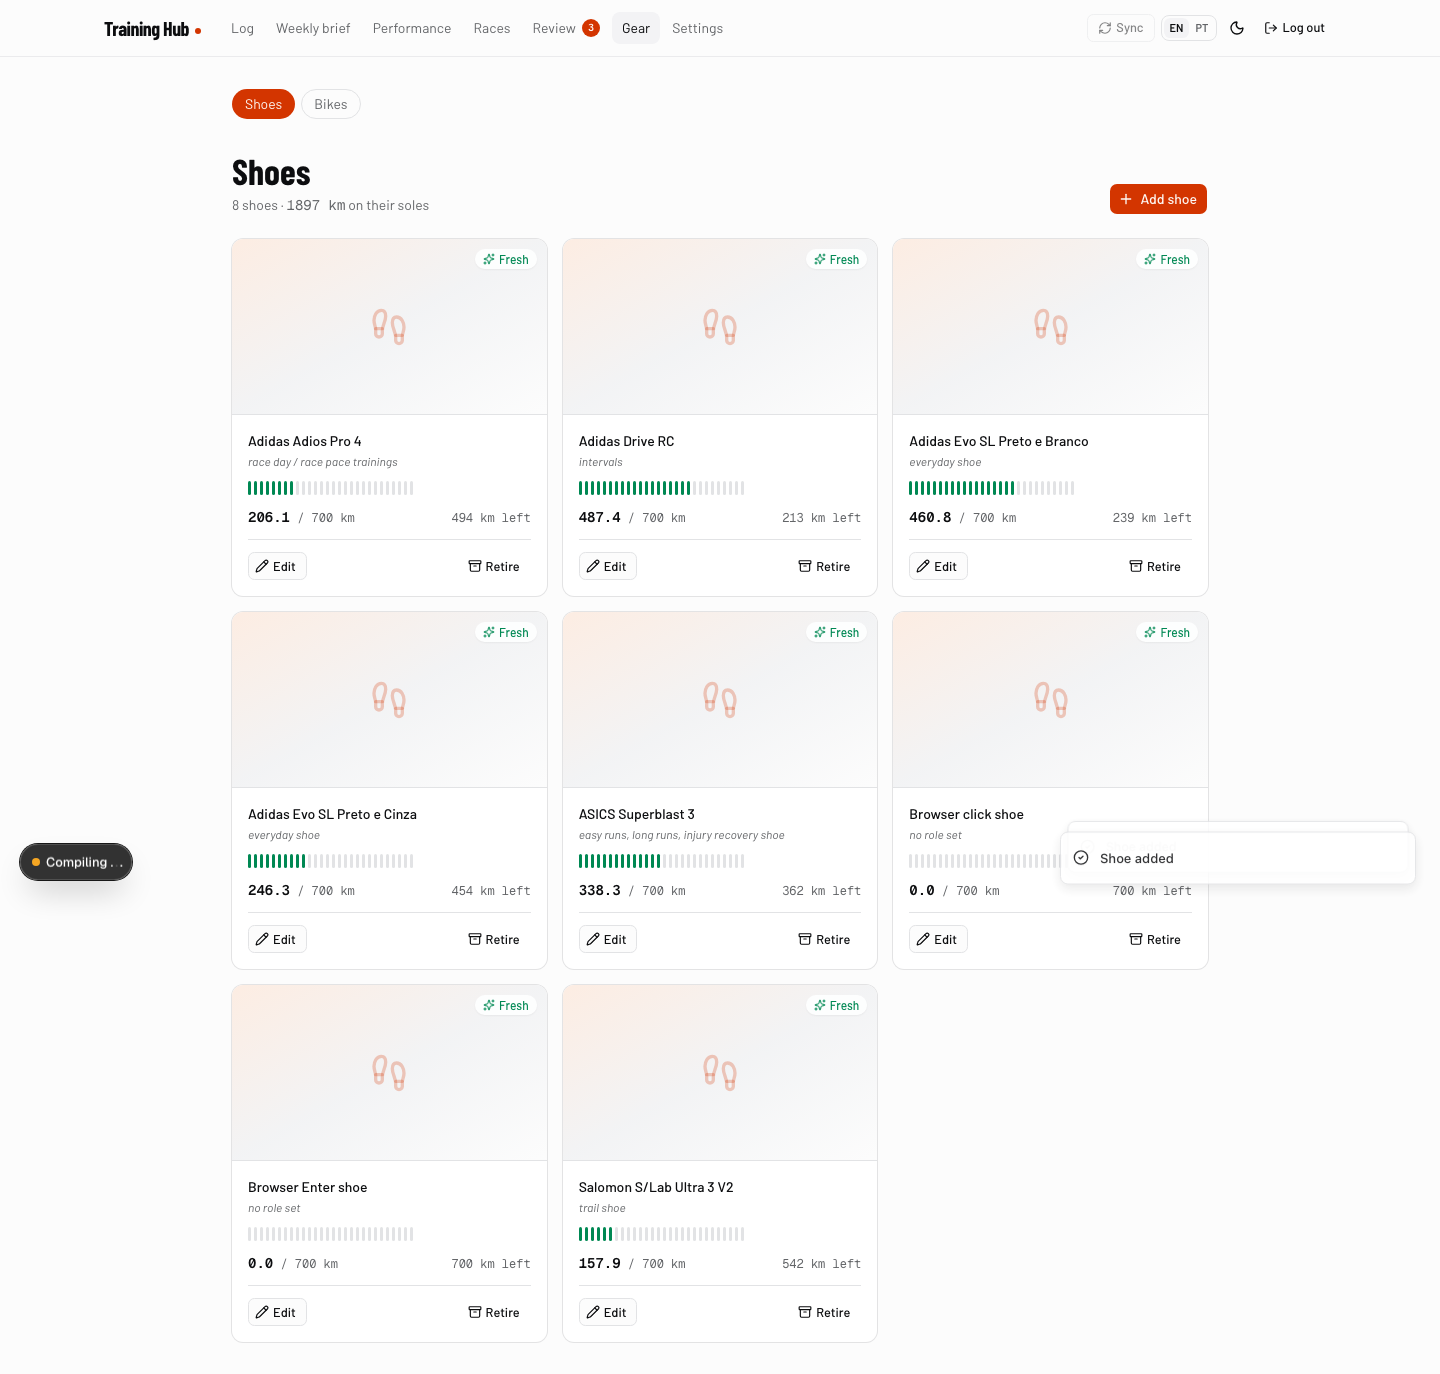
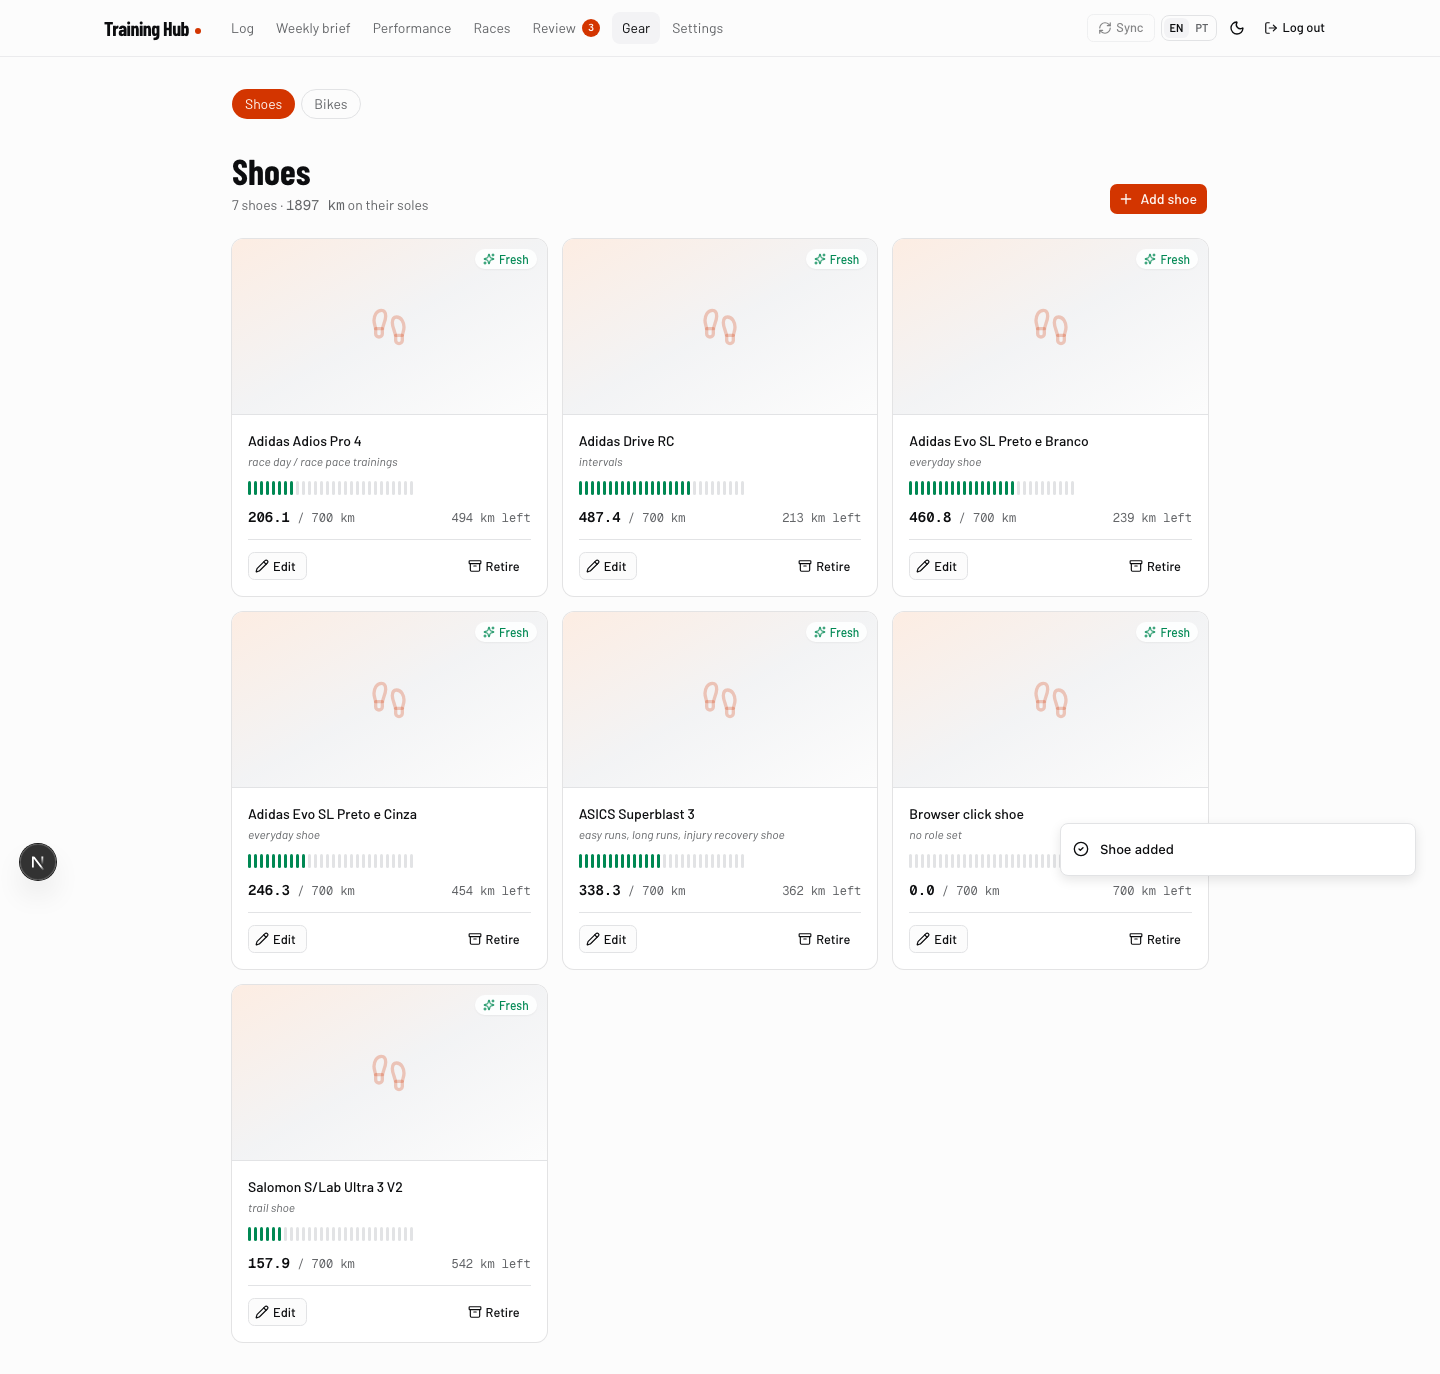
fix: stabilize gear form submission feedback

diff --git a/e2e/gear.spec.ts b/e2e/gear.spec.ts
@@ -1,7 +1,13 @@
 import { test, expect } from "@playwright/test";
 import path from "node:path";
 
-const EVIDENCE = path.join(process.cwd(), "evidence", "issue-56");
+async function captureEvidence(page: import("@playwright/test").Page, name: string) {
+  if (process.env.CAPTURE_GEAR_EVIDENCE !== "1") return;
+  await page.screenshot({
+    path: path.join(process.cwd(), "evidence", "issue-56", name),
+    fullPage: true,
+  });
+}
 
 async function addGear(
   page: import("@playwright/test").Page,
@@ -14,6 +20,10 @@ async function addGear(
   await page.getByRole("button", { name: label }).click();
   const dialog = page.getByRole("dialog");
   await dialog.getByLabel("Name").fill(name);
+  let actionPosts = 0;
+  page.on("request", (request) => {
+    if (request.method() === "POST" && request.headers()["next-action"]) actionPosts += 1;
+  });
   const actionRequest = page.waitForRequest(
     (request) => request.method() === "POST" && Boolean(request.headers()["next-action"])
   );
@@ -26,6 +36,9 @@ async function addGear(
   await actionRequest;
   await expect(dialog).toBeHidden();
   await expect(page.getByText(name, { exact: true })).toBeVisible();
+  await expect(page.getByText(kind === "shoe" ? "Shoe added" : "Bike added")).toHaveCount(1);
+  await page.waitForTimeout(200);
+  expect(actionPosts).toBe(1);
 }
 
 // Shoes and bikes are created by the baseline migration that the seed runs, so
@@ -49,7 +62,7 @@ test("authenticated athlete adds a shoe with click submission through a Server A
 }) => {
   await page.setViewportSize({ width: 1440, height: 900 });
   await addGear(page, "shoe", "Browser click shoe", "click");
-  await page.screenshot({ path: path.join(EVIDENCE, "56-gear-success-1440.png"), fullPage: true });
+  await captureEvidence(page, "56-gear-success-1440.png");
 });
 
 test("authenticated athlete adds a shoe with Enter submission through a Server Action", async ({
@@ -58,9 +71,33 @@ test("authenticated athlete adds a shoe with Enter submission through a Server A
   await page.setViewportSize({ width: 390, height: 844 });
   await addGear(page, "shoe", "Browser Enter shoe", "enter");
   await expect(page.locator("html")).toHaveJSProperty("scrollWidth", 390);
-  await page.screenshot({ path: path.join(EVIDENCE, "56-gear-success-390.png"), fullPage: true });
+  await captureEvidence(page, "56-gear-success-390.png");
 });
 
 test("authenticated athlete adds a bike through its Server Action", async ({ page }) => {
   await addGear(page, "bike", "Browser bike", "click");
+});
+
+test("native invalid gear input stays open and never sends a Server Action", async ({ page }) => {
+  await page.goto("/gear");
+  await page.getByRole("button", { name: "Add shoe" }).click();
+  const dialog = page.getByRole("dialog");
+  const name = dialog.getByLabel("Name");
+  await expect(name).toBeFocused();
+
+  let actionPosts = 0;
+  page.on("request", (request) => {
+    if (request.method() === "POST" && request.headers()["next-action"]) actionPosts += 1;
+  });
+  await dialog.getByRole("button", { name: "Add shoe" }).click();
+  await expect(dialog).toBeVisible();
+  await expect(name).toBeFocused();
+  await page.waitForTimeout(200);
+  expect(actionPosts).toBe(0);
+
+  await name.fill("Keyboard shoe");
+  await name.press("Tab");
+  await expect(dialog.getByLabel("Role")).toBeFocused();
+  await dialog.getByLabel("Role").press("Tab");
+  await expect(dialog.getByLabel("Baseline km")).toBeFocused();
 });

diff --git a/src/components/gear-dialog.test.tsx b/src/components/gear-dialog.test.tsx
@@ -16,6 +16,8 @@ import { en } from "@/lib/i18n/en";
 const mocks = vi.hoisted(() => ({
   saveShoeFormAction: vi.fn(),
   saveBikeFormAction: vi.fn(),
+  toastSuccess: vi.fn(),
+  toastError: vi.fn(),
 }));
 
 vi.mock("@/lib/actions", () => ({
@@ -26,6 +28,8 @@ vi.mock("@/lib/actions", () => ({
   setShoeRetiredAction: vi.fn(),
   setBikeRetiredAction: vi.fn(),
 }));
+
+vi.mock("sonner", () => ({ toast: { success: mocks.toastSuccess, error: mocks.toastError } }));
 
 vi.mock("next/navigation", () => ({
   useRouter: () => ({ refresh: vi.fn(), push: vi.fn(), replace: vi.fn() }),
@@ -107,6 +111,34 @@ describe("GearDialog kind=bike (bike-specific: no retirement, 'Type' role)", () 
 });
 
 describe("GearDialog direct Server Action form bindings", () => {
+  it("shows pending feedback, prevents a duplicate action, then closes and toasts exactly once", async () => {
+    let resolve!: (value: { ok: true }) => void;
+    mocks.saveShoeFormAction.mockReturnValueOnce(
+      new Promise((done) => {
+        resolve = done;
+      })
+    );
+    render(
+      <GearDialog kind="shoe" gearOptions={[]} connected={true}>
+        <button>open</button>
+      </GearDialog>
+    );
+    open("open");
+    fireEvent.change(screen.getByLabelText(en.shoeDialog.name), { target: { value: "Test shoe" } });
+    const form = screen.getByRole("button", { name: en.shoeDialog.add }).closest("form")!;
+    fireEvent.submit(form);
+    fireEvent.submit(form);
+
+    await waitFor(() =>
+      expect(screen.getByRole("button", { name: en.shoeDialog.add }).hasAttribute("disabled")).toBe(
+        true
+      )
+    );
+    expect(document.querySelector("svg.animate-spin")).toBeTruthy();
+    expect(mocks.saveShoeFormAction).toHaveBeenCalledTimes(1);
+    resolve({ ok: true });
+  });
+
   it("submits a shoe through the static form action and keeps the dialog open on a safe error", async () => {
     mocks.saveShoeFormAction.mockResolvedValueOnce({ ok: false, error: "Could not save gear." });
     render(

diff --git a/src/components/gear-dialog.tsx b/src/components/gear-dialog.tsx
@@ -1,6 +1,6 @@
 "use client";
 
-import { useActionState, useEffect, useState, useTransition } from "react";
+import { useActionState, useCallback, useEffect, useState, useTransition } from "react";
 import { ArchiveIcon, ArchiveRestoreIcon, Loader2Icon } from "lucide-react";
 import { toast } from "sonner";
 import { Button } from "@/components/ui/button";
@@ -47,6 +47,7 @@ export function GearDialog(props: GearDialogProps) {
   const { kind, gear, gearOptions, connected, children } = props;
   const { t } = useI18n();
   const [open, setOpen] = useState(false);
+  const close = useCallback(() => setOpen(false), []);
 
   const d = kind === "shoe" ? t.shoeDialog : t.bikeDialog;
 
@@ -63,14 +64,14 @@ export function GearDialog(props: GearDialogProps) {
             gear={gear}
             gearOptions={gearOptions}
             connected={connected}
-            onSuccess={() => setOpen(false)}
+            onSuccess={close}
           />
         ) : (
           <BikeGearForm
             gear={gear}
             gearOptions={gearOptions}
             connected={connected}
-            onSuccess={() => setOpen(false)}
+            onSuccess={close}
           />
         )}
       </DialogContent>
